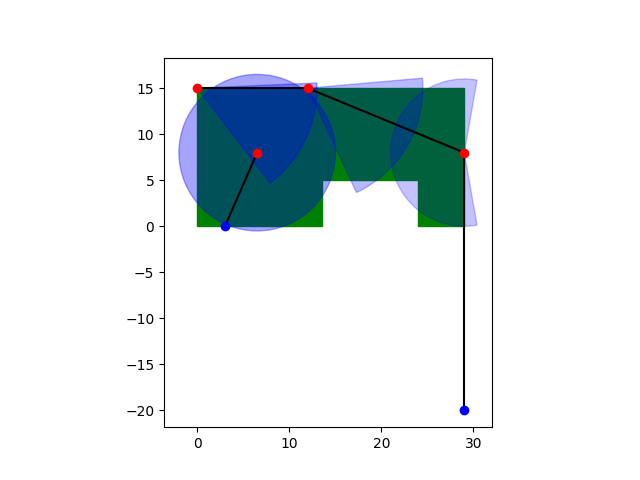
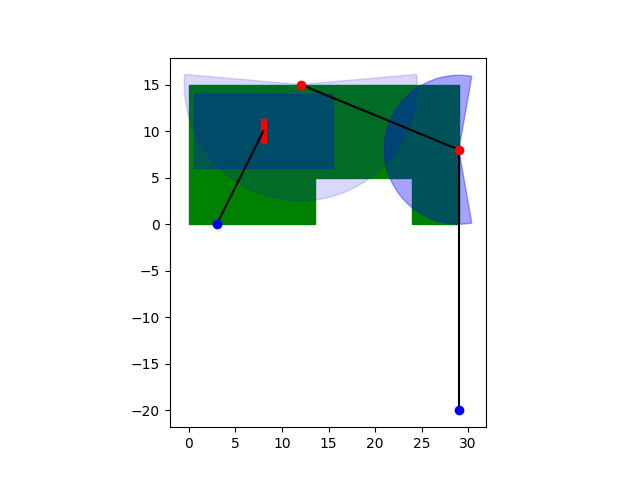
maybe this is better

diff --git a/lawnsim/plotter.py b/lawnsim/plotter.py
@@ -9,7 +9,7 @@ from lawn import Lawn
 from lawn_area import LawnRectangle
 from location import Location
 from spigot import Spigot
-from sprinkler import Sprinkler
+from sprinkler import Sprinkler, OscillatingSprinkler
 
 
 lavender_rectangle = LawnRectangle(
@@ -42,15 +42,15 @@ hydrangea_sprinkler = Sprinkler(
     spray_arc=200.0,
     spray_direction=180,
     spray_radius=8.0,
-    water_flow_rate=26.66666666666666,
+    water_flow_rate=40,
 )
 
 tulip_sprinkler = Sprinkler(
     location=Location(x=12.0, y=15.0),
-    spray_arc=70,
-    spray_direction=330,
+    spray_arc=190,
+    spray_direction=270,
     spray_radius=12.5,
-    water_flow_rate=26.66666666666666,
+    water_flow_rate=40,
 )
 walkway_spigot.connect(sink=hydrangea_hose)
 hydrangea_hose.connect(sink=hydrangea_sprinkler)
@@ -58,40 +58,23 @@ hydrangea_sprinkler.connect(sink=tulip_hose)
 tulip_hose.connect(sink=tulip_sprinkler)
 
 
-little_lavender_hose = Hose(
-    length=10.0,
-)
-corner_sprinkler = Sprinkler(
-    location=Location(x=6.5, y=8.0),
-    spray_arc=360.0,
-    spray_direction=45,
-    spray_radius=8.5,
+lavender_hose = Hose(length=25.0)
+tulip_sprinkler.connect(sink=lavender_hose)
+
+little_lavender_hose = Hose(length=10.0)
+side_spigot.connect(sink=little_lavender_hose)
+oscillating_sprinkler = OscillatingSprinkler(
+    location=Location(x=8.0, y=10.0),
+    orientation=0.0,
+    width=15.0,
+    length=8.0,
     water_flow_rate=80.0,
 )
-side_spigot.connect(sink=little_lavender_hose)
-little_lavender_hose.connect(sink=corner_sprinkler)
-lavender_hose = Hose(
-    length=25.0,
-)
-lavender_sprinkler = Sprinkler(
-    location=Location(x=0.0, y=15.0),
-    spray_arc=55,
-    spray_direction=335,
-    spray_radius=13.0,
-    water_flow_rate=26.66666666666666,
-)
-tulip_sprinkler.connect(sink=lavender_hose)
-lavender_hose.connect(sink=lavender_sprinkler)
-
+little_lavender_hose.connect(sink=oscillating_sprinkler)
 
 spigots = [walkway_spigot, side_spigot]
-hoses = [hydrangea_hose, tulip_hose, little_lavender_hose, lavender_hose]
-sprinklers = [
-    hydrangea_sprinkler,
-    tulip_sprinkler,
-    corner_sprinkler,
-    lavender_sprinkler,
-]
+hoses = [hydrangea_hose, tulip_hose, little_lavender_hose]
+sprinklers = [hydrangea_sprinkler, tulip_sprinkler, oscillating_sprinkler]
 
 lawn = Lawn(
     rectangles=rectangles,
@@ -133,25 +116,61 @@ class LawnSimulator:
 
         # Plot sprinklers and their spray arcs
         for sprinkler in self.lawn.sprinklers:
-            ax.plot(sprinkler.location.x, sprinkler.location.y, "ro")
-            total_area = (
-                np.pi * sprinkler.spray_radius**2 * (sprinkler.spray_arc / 360.0)
-            )
-            water_per_area = sprinkler.water_flow_rate / total_area
-            alpha_value = water_per_area  # Adjust this calculation based on your needs
+            if isinstance(sprinkler, OscillatingSprinkler):
+                # For oscillating sprinklers, plot a rectangle
+                t = (
+                    Affine2D().rotate_deg_around(
+                        sprinkler.location.x,
+                        sprinkler.location.y,
+                        sprinkler.orientation,
+                    )
+                    + ax.transData
+                )
+                rectangle = patches.Rectangle(
+                    (
+                        sprinkler.location.x - sprinkler.width / 2,
+                        sprinkler.location.y - sprinkler.length / 2,
+                    ),
+                    sprinkler.width,
+                    sprinkler.length,
+                    fill=True,
+                    color="blue",
+                    alpha=0.3,
+                    transform=t,
+                )
+                ax.add_patch(rectangle)
 
-            sprinkler_patch = patches.Wedge(
-                (sprinkler.location.x, sprinkler.location.y),
-                sprinkler.spray_radius,
-                sprinkler.spray_direction - sprinkler.spray_arc / 2,
-                # theta1 (start angle)
-                sprinkler.spray_direction + sprinkler.spray_arc / 2,
-                # theta2 (end angle)
-                fill=True,
-                color="blue",
-                alpha=alpha_value,
-            )
-            ax.add_patch(sprinkler_patch)
+                # Add a small rectangle to represent the sprinkler
+                sprinkler_marker = patches.Rectangle(
+                    (sprinkler.location.x - 0.25, sprinkler.location.y - 1.25),
+                    0.5,
+                    2.5,
+                    fill=True,
+                    color="red",
+                )
+                ax.add_patch(sprinkler_marker)
+            else:
+                ax.plot(sprinkler.location.x, sprinkler.location.y, "ro")
+                total_area = (
+                    np.pi * sprinkler.spray_radius**2 * (sprinkler.spray_arc / 360.0)
+                )
+                water_per_area = sprinkler.water_flow_rate / total_area
+                alpha_value = (
+                    water_per_area  # Adjust this calculation based on your needs
+                )
+
+                sprinkler_patch = patches.Wedge(
+                    (sprinkler.location.x, sprinkler.location.y),
+                    sprinkler.spray_radius,
+                    sprinkler.spray_direction - sprinkler.spray_arc / 2,
+                    # theta1 (start angle)
+                    sprinkler.spray_direction + sprinkler.spray_arc / 2,
+                    # theta2 (end angle)
+                    fill=True,
+                    color="blue",
+                    alpha=alpha_value,
+                )
+                ax.add_patch(sprinkler_patch)
 
         # Set the aspect of the plot to match the real-world aspect
         ax.set_aspect("equal")

diff --git a/lawnsim/sprinkler.py b/lawnsim/sprinkler.py
@@ -18,3 +18,13 @@ class Sprinkler(
     sink: WaterSink = None
     source: WaterSource = None
     water_flow_rate: float = 40.0
+
+
+@dataclass
+class OscillatingSprinkler(WaterSink):
+    location: Location
+    orientation: float
+    width: float
+    length: float
+    source: WaterSource = None
+    water_flow_rate: float = 40.0
